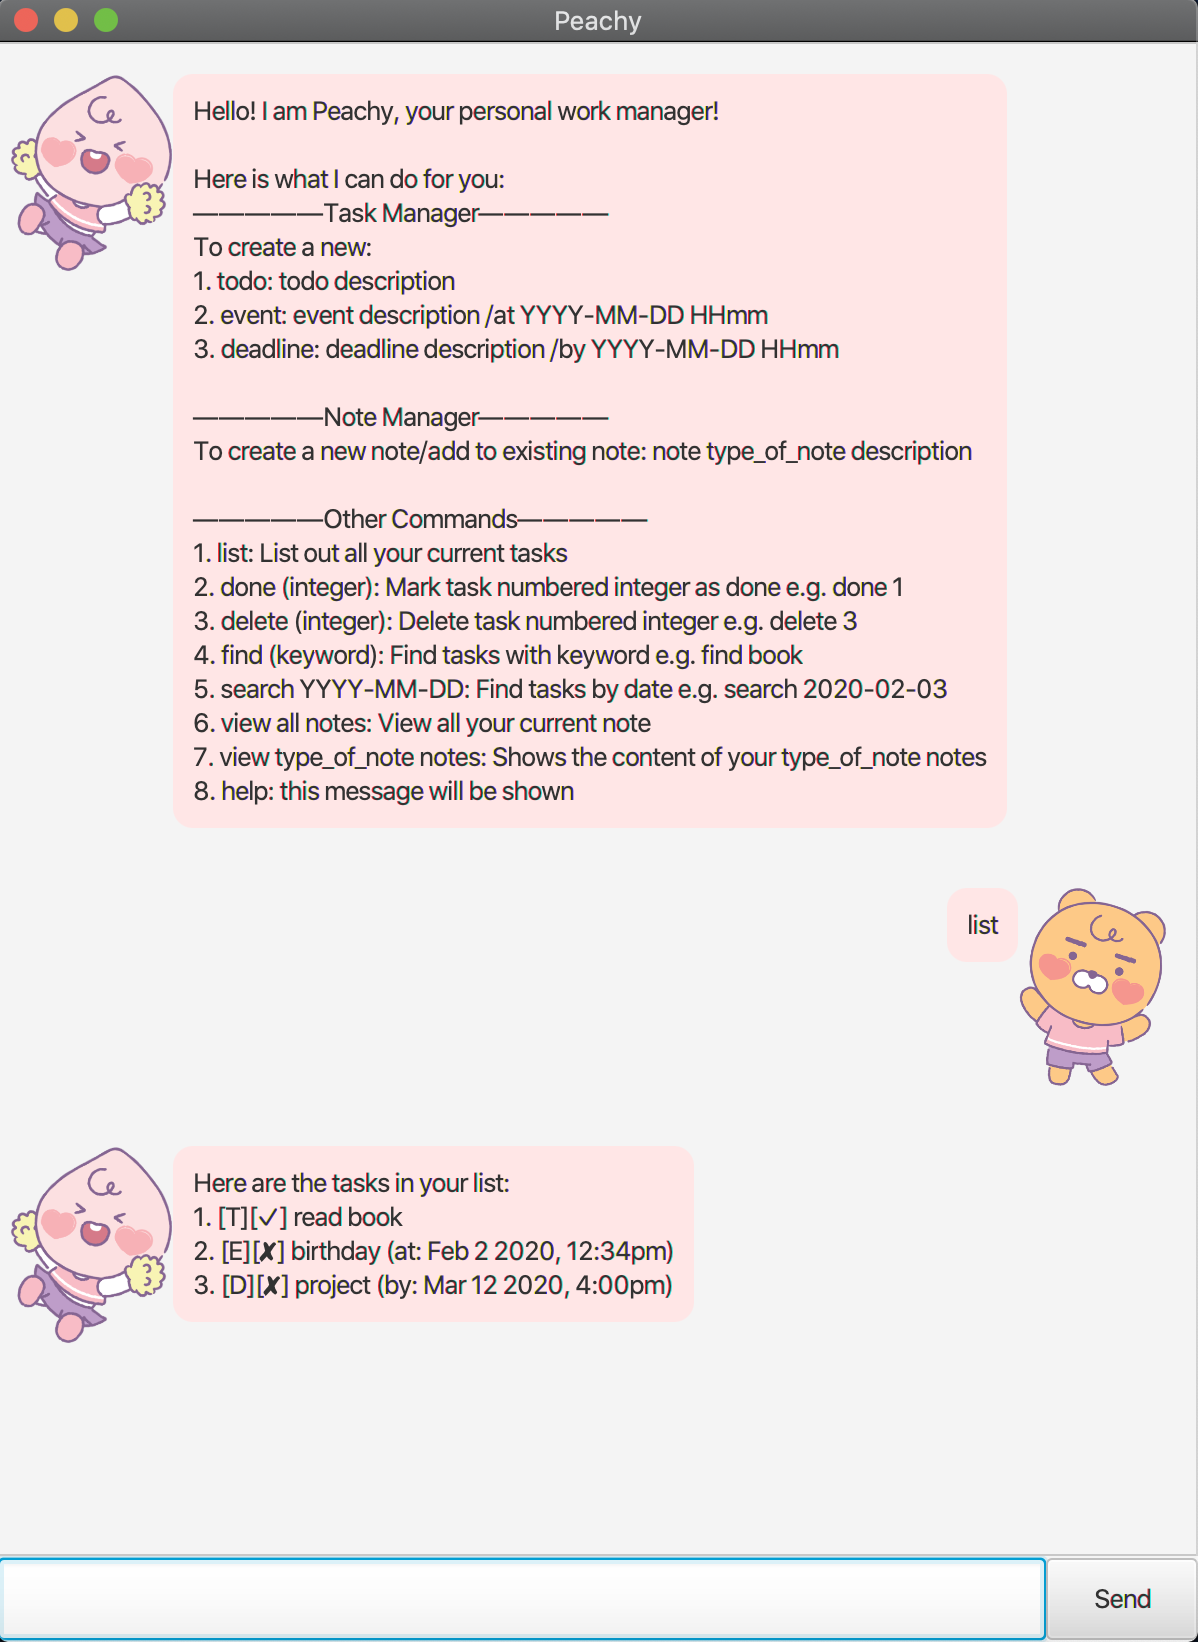
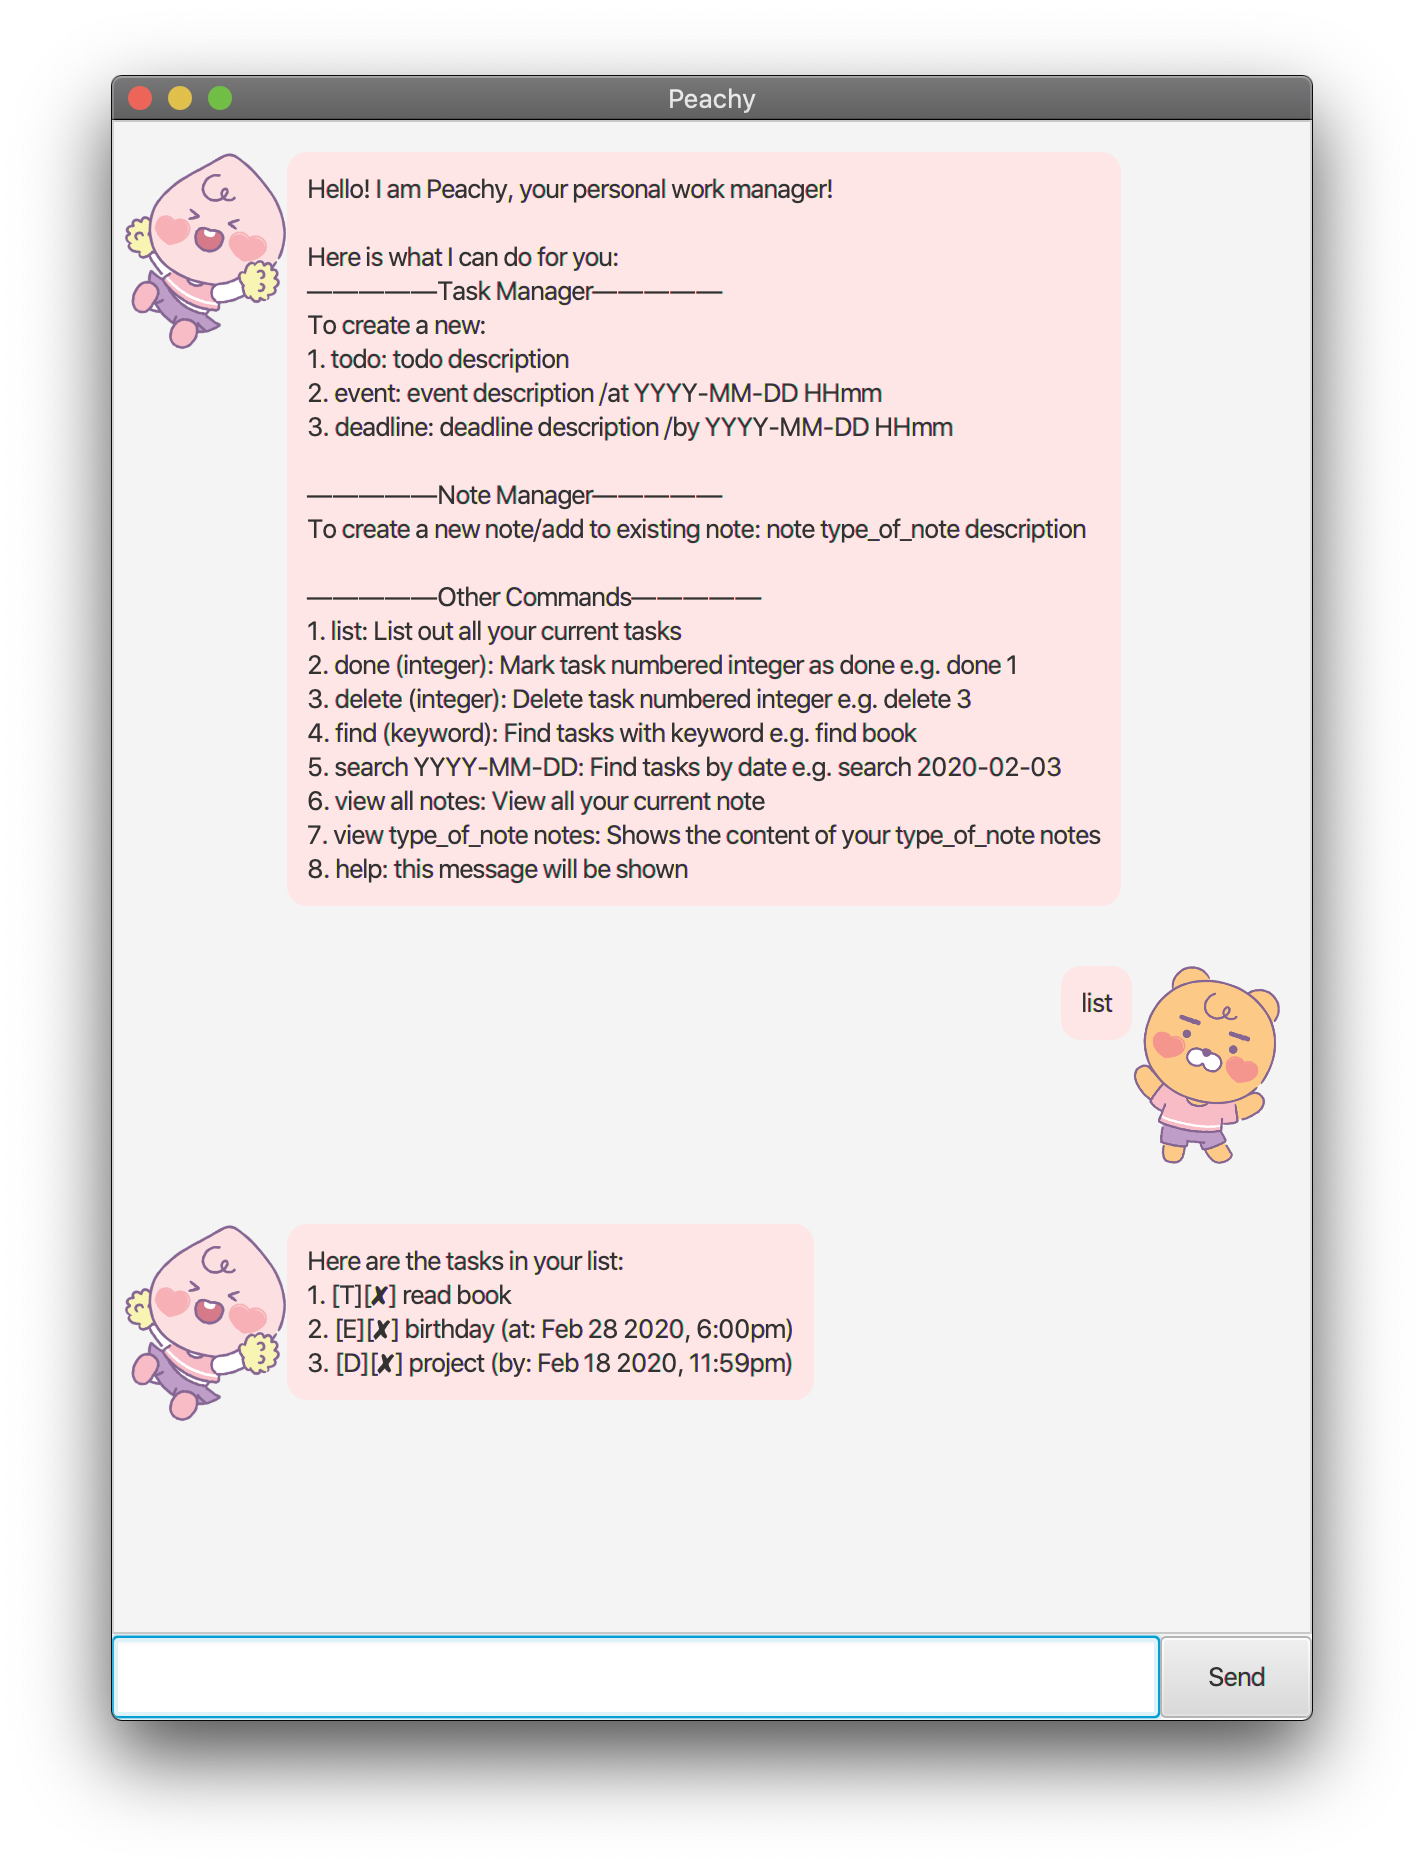
A-UserGuide

Changed region(s): [[0.0, 0.0, 1.0, 1.0], [0.7412, 0.528, 0.7721, 0.5591]]

diff --git a/docs/README.md b/docs/README.md
@@ -1,20 +1,89 @@
 # User Guide
 
+## About
+Peachy is your new employed personal assistant 
+who will help you through your daily tasks and schedule
+to make sure you stay organised and productive!
+<p style="text-align:center;"><img src="Ui.png" alt="Ui" width="1424" height="1868"></p>
+
 ## Features 
 
-### Feature 1 
-Description of feature.
+### Feature 1 - Adding Tasks
+There are 3 kind of Tasks you can add namely:
+1. todo
+2. event
+3. deadline
 
-## Usage
+Input format:
+1. `todo description` (i.e. todo read book)
+2. `event description /at YYYY-MM-DD HHmm` (i.e. event birthday /at 2020-02-28 1800)
+3. `deadline description /by YYYY-MM-DD HHmm` (i.e. deadline project /by 2020-02-18 2359)
 
-### `Keyword` - Describe action
+<p style="text-align:center;"><img src="images/AddTask.png" alt="Add Task" width="1424" height="1868"></p>
 
-Describe action and its outcome.
+### Feature 2 - Mark Task as done 
+Upon completion of a task, you can check it off you task list.
 
-Example of usage: 
+Input format: `done number` (i.e. delete 1)
 
-`keyword (optional arguments)`
+<p style="text-align:center;"><img src="images/Done.png" alt="Done" width="1162" height="496"></p>
 
-Expected outcome:
+### Feature 3 - Delete Task
+Removes task from your task list.
 
-`outcome`
+Input format: `delete number` (i.e. delete 1)
+
+<p style="text-align:center;"><img src="images/Delete.png" alt="Add Task" width="1162" height="504"></p>
+
+### Feature 4 - Finding Task
+Find and list out all tasks containing keyword.
+
+Input format: `find keyword` (i.e. find book)
+
+<p style="text-align:center;"><img src="images/Find.png" alt="Find" width="1162" height="510"></p>
+
+### Feature 5 - Search for Task
+Search and list out all tasks containing the same date.
+
+Input format: `search YYYY-MM-DD` (i.e. search 2020-02-21)
+
+<p style="text-align:center;"><img src="images/Search.png" alt="Search" width="1158" height="506"></p>
+
+### Feature 6 - List out all current tasks
+List out all your current tasks.
+
+Input format: `list`
+
+<p style="text-align:center;"><img src="images/List.png" alt="List" width="1158" height="676"></p>
+
+### Feature 7 - Create new note
+Create a new note with specific category (e.g. school, personal, misc).
+Upon note creation, subsequent function call will result it addition to note.
+
+Input format: `note category description` (i.e. note personal visit dentist every 6 months)
+
+<p style="text-align:center;"><img src="images/Note.png" alt="Note" width="1162" height="498"></p>
+
+### Feature 8 - View note
+View the contents of the note in the specific category.
+
+Input format: `view category note` (i.e. view personal notes)
+<p style="text-align:center;"><img src="images/View.png" alt="View Note" width="1160" height="514"></p>
+
+### Feature 9 - View all notes created
+View all the note files created.
+
+Input format: `view all notes`
+<p style="text-align:center;"><img src="images/ViewAll.png" alt="View All Notes" width="1162" height="506"></p>
+
+### Feature 10 - Help
+Welcome message will be printed, with all the commands format listed.
+
+Input format: `help`
+<p style="text-align:center;"><img src="images/Help.png" alt="Help" width="1162" height="1060"></p>
+
+### Feature 11 - Exit Peachy
+Quits Peachy and closes the window.
+
+Input format: `bye`
+
